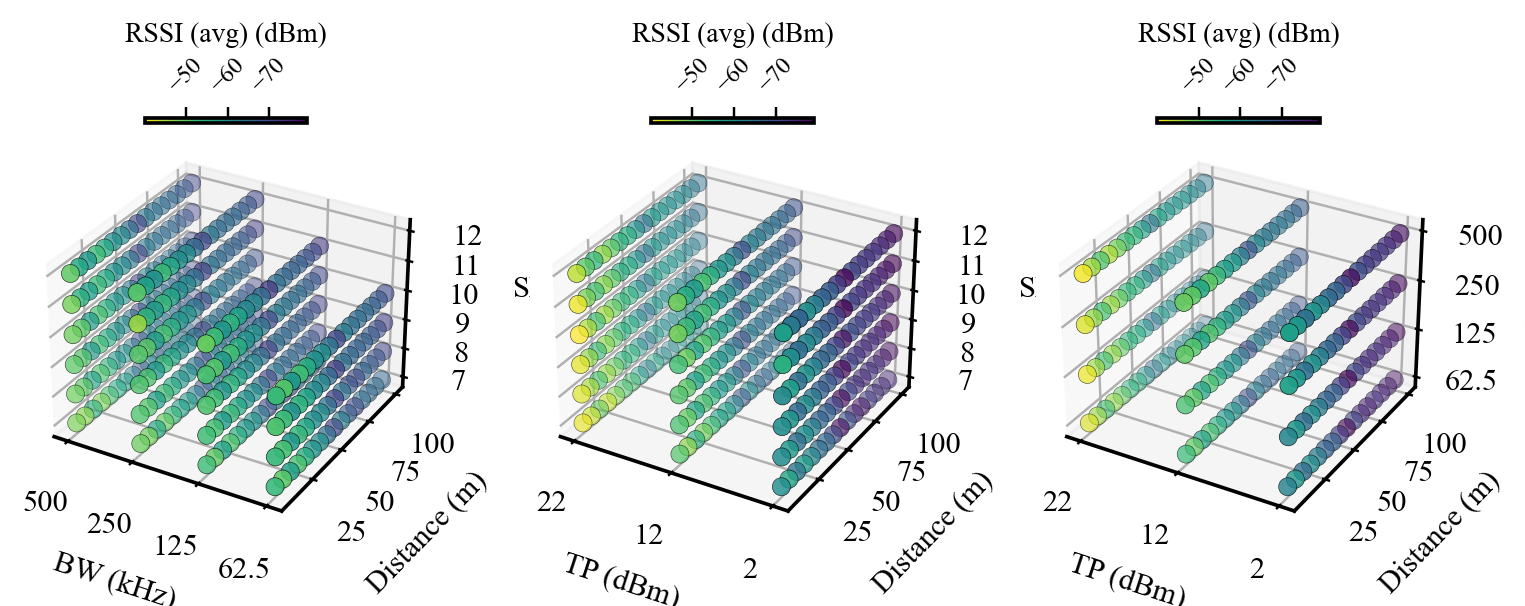
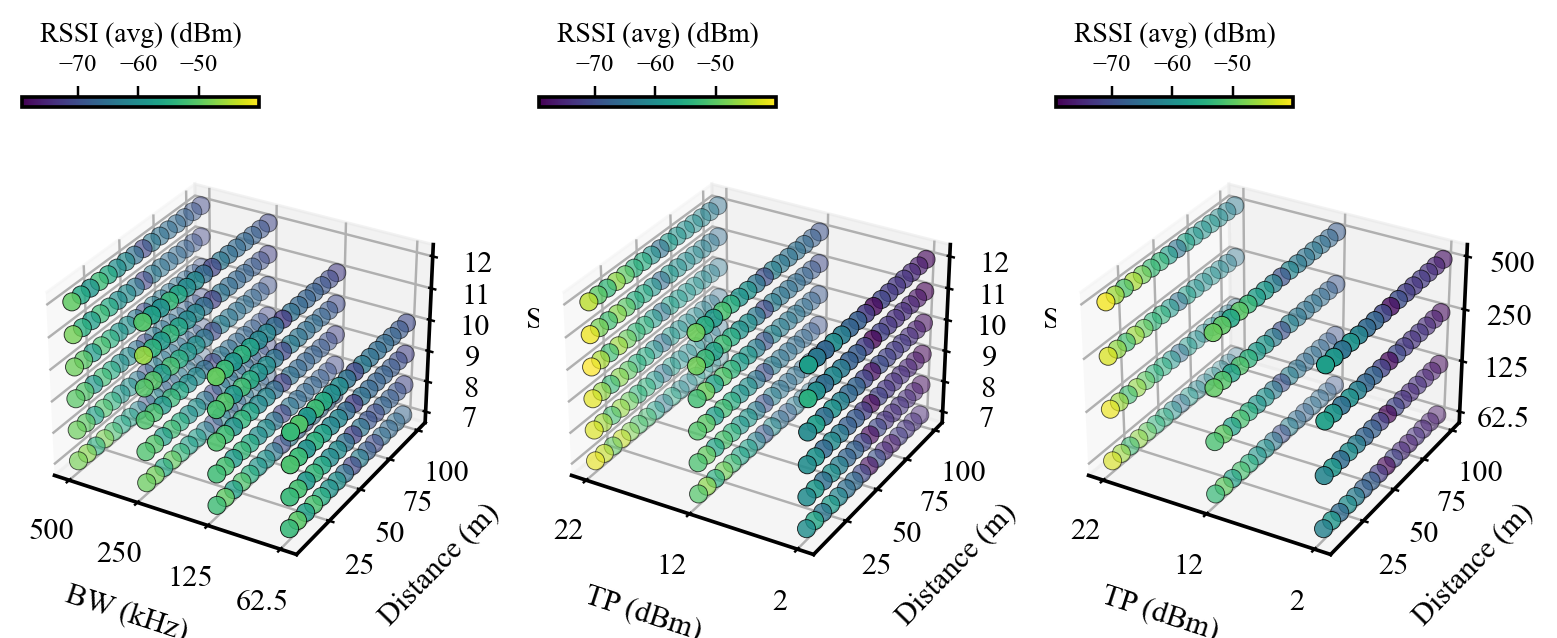
asd

diff --git a/tools/plots/plot_rssi_vs_multiple.py b/tools/plots/plot_rssi_vs_multiple.py
@@ -11,7 +11,6 @@ from collections import defaultdict
 
 import matplotlib.pyplot as plt
 import numpy as np
-from matplotlib.transforms import Bbox, Affine2D
 from mpl_toolkits.mplot3d import Axes3D
 
 SCRIPT_DIR = os.path.dirname(os.path.abspath(__file__))
@@ -254,13 +253,17 @@ def plot_rssi_3d(records, output_png, x_axis, y_axis, z_axis, invert_x=False, in
     y_vals = np.array([p[y_axis] for p in points])
     z_vals = np.array([p[z_axis] for p in points])
     rssi_vals = np.array([p["rssi"] for p in points])
-    fig = plt.figure(figsize=FIGSIZE_TWO_COL)
+    fig = plt.figure(figsize=(7.16, 4))
     ax = fig.add_subplot(111, projection="3d")
     sc = ax.scatter(x_vals, y_vals, z_vals, c=rssi_vals, cmap="viridis", s=50, edgecolors="k", linewidths=0.3)
     labels = {"sf": "SF", "bw": "BW (kHz)", "tp": "TP (dBm)", "distance": "Distance (m)"}
-    ax.set_xlabel(labels.get(x_axis, x_axis), fontsize=IEEE_FONTSIZE)
-    ax.set_ylabel(labels.get(y_axis, y_axis), fontsize=IEEE_FONTSIZE)
-    ax.set_zlabel(labels.get(z_axis, z_axis), fontsize=IEEE_FONTSIZE)
+    ax.set_xlabel(labels.get(x_axis, x_axis), fontsize=IEEE_FONTSIZE, labelpad=2)
+    ax.set_ylabel(labels.get(y_axis, y_axis), fontsize=IEEE_FONTSIZE, labelpad=2)
+    ax.set_zlabel(labels.get(z_axis, z_axis), fontsize=IEEE_FONTSIZE, labelpad=2)
+    ax.zaxis.label.set_verticalalignment('top')
+    ax.tick_params(axis='x', pad=1)
+    ax.tick_params(axis='y', pad=1)
+    ax.tick_params(axis='z', pad=1)
     bw_khz = sorted(set(bw / 1000.0 for bw in BW_VALUES))
     distances = sorted(set(d for d, _, _, _, _ in records))
     for axis, key in [("x", x_axis), ("y", y_axis), ("z", z_axis)]:
@@ -321,7 +324,7 @@ def plot_rssi_3d_combined(records, output_png):
         ("tp", "distance", "sf", True, False),
         ("tp", "distance", "bw", True, False),
     ]
-    fig = plt.figure(figsize=(FIGSIZE_TWO_COL[0], 4.5))
+    fig = plt.figure(figsize=(7.16, 4))
     rssi_all = []
     for x_axis, y_axis, z_axis, _, _ in configs:
         pts = agg_3d(x_axis, y_axis, z_axis)
@@ -348,11 +351,15 @@ def plot_rssi_3d_combined(records, output_png):
                     break
         rssi_vals = np.array([p["rssi"] for p in pts])
         ax = fig.add_subplot(1, 3, idx + 1, projection="3d")
-        sc = ax.scatter(x_vals, y_vals, z_vals, c=rssi_vals, cmap="viridis", s=35, edgecolors="k", linewidths=0.2, vmin=rssi_min, vmax=rssi_max)
+        sc = ax.scatter(x_vals, y_vals, z_vals, c=rssi_vals, cmap="viridis", s=35, edgecolors="k", linewidths=0.3, vmin=rssi_min, vmax=rssi_max)
         scatter_handles.append((sc, ax, x_axis, y_axis, z_axis))
-        ax.set_xlabel(labels[x_axis], fontsize=IEEE_FONTSIZE)
-        ax.set_ylabel(labels[y_axis], fontsize=IEEE_FONTSIZE)
-        ax.set_zlabel(labels[z_axis], fontsize=IEEE_FONTSIZE)
+        ax.set_xlabel(labels[x_axis], fontsize=IEEE_FONTSIZE, labelpad=2)
+        ax.set_ylabel(labels[y_axis], fontsize=IEEE_FONTSIZE, labelpad=2)
+        ax.set_zlabel(labels[z_axis], fontsize=IEEE_FONTSIZE, labelpad=2)
+        ax.zaxis.label.set_verticalalignment('top')
+        ax.tick_params(axis='x', pad=1)
+        ax.tick_params(axis='y', pad=1)
+        ax.tick_params(axis='z', pad=1)
         for axis, key in [("x", x_axis), ("y", y_axis), ("z", z_axis)]:
             set_ticks = getattr(ax, f"set_{axis}ticks")
             set_ticklabels = getattr(ax, f"set_{axis}ticklabels")
@@ -374,28 +381,13 @@ def plot_rssi_3d_combined(records, output_png):
         if inv_y:
             ax.invert_yaxis()
 
-    fig.subplots_adjust(left=0.05, right=0.95, top=0.82, bottom=0.05, wspace=0.25)
-    cbars = []
+    fig.subplots_adjust(left=0.02, right=0.95, top=0.92, bottom=0.05, wspace=0.2)
     for sc, ax, _, _, _ in scatter_handles:
-        cbar = fig.colorbar(sc, ax=ax, location="top", orientation="horizontal", shrink=0.6, pad=0.08, aspect=30, fraction=0.04)
-        cbar.ax.invert_xaxis()
+        cbar = fig.colorbar(sc, ax=ax, location="top", orientation="horizontal",
+                            shrink=0.55, pad=0.02, aspect=25, fraction=0.05,
+                            anchor=(0, 1), panchor=(0, 1))
         cbar.set_label(r"RSSI (avg) (dBm)", fontsize=IEEE_FONTSIZE - 1)
-        cbar.ax.tick_params(labelsize=IEEE_FONTSIZE - 2, rotation=45)
-        cbars.append(cbar)
-    fig.canvas.draw()
-    for cbar in cbars:
-        cbar_ax = cbar.ax
-        pos = cbar_ax.get_position(original=False)
-        cx, cy = pos.x0 + pos.width / 2, pos.y0 + pos.height / 2
-        t = Affine2D().translate(-cx, -cy).rotate_deg(45).translate(cx, cy)
-        orig_bbox = Bbox.from_bounds(pos.x0, pos.y0, pos.width, pos.height)
-
-        def make_locator(bbox, trans):
-            def locator(axes, renderer):
-                return trans.transform_bbox(bbox)
-            return locator
-
-        cbar_ax.set_axes_locator(make_locator(orig_bbox, t))
+        cbar.ax.tick_params(labelsize=IEEE_FONTSIZE - 2)
     fig.savefig(output_png, dpi=SAVE_DPI, bbox_inches="tight")
     plt.close()
     print(f"Saved: {output_png}")
@@ -416,8 +408,7 @@ def main():
     args = parser.parse_args()
 
     if args.output_dir is None:
-        out_dir = "dataset_plots" if "dataset" in args.data_root else "raw_test_data_plots"
-        args.output_dir = os.path.join(WORKSPACE, "results", out_dir, "rssi")
+        args.output_dir = os.path.join(WORKSPACE, "results", "raw_test_data_plots", "rssi")
 
     setup_plot_style()
     records = collect_rssi_data(args.data_root)
